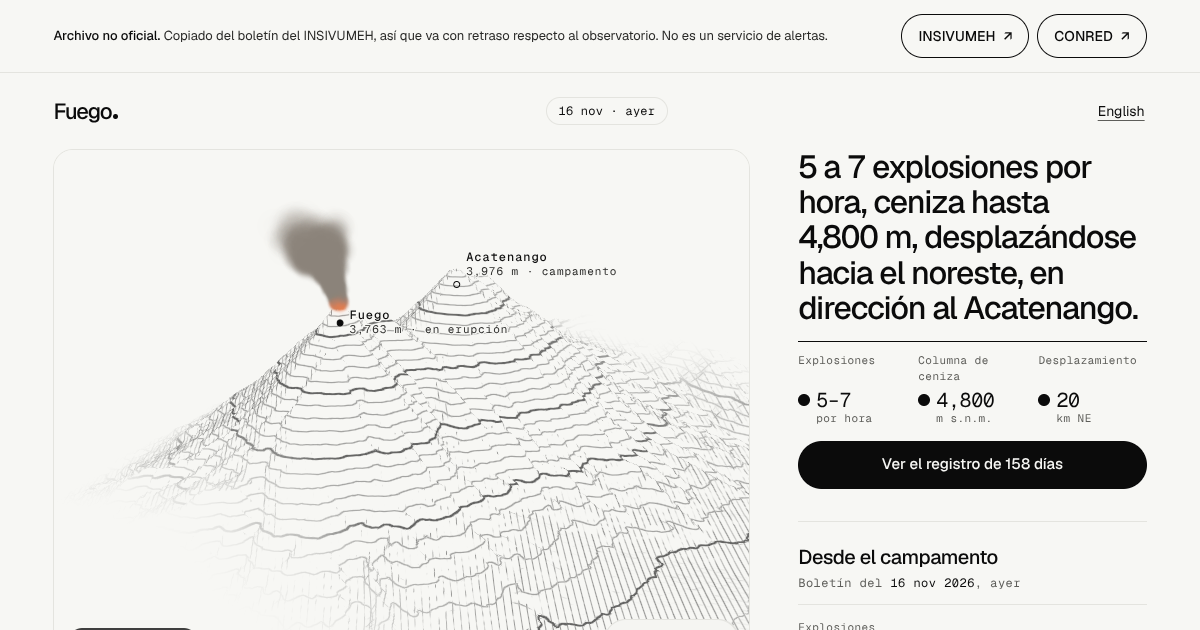
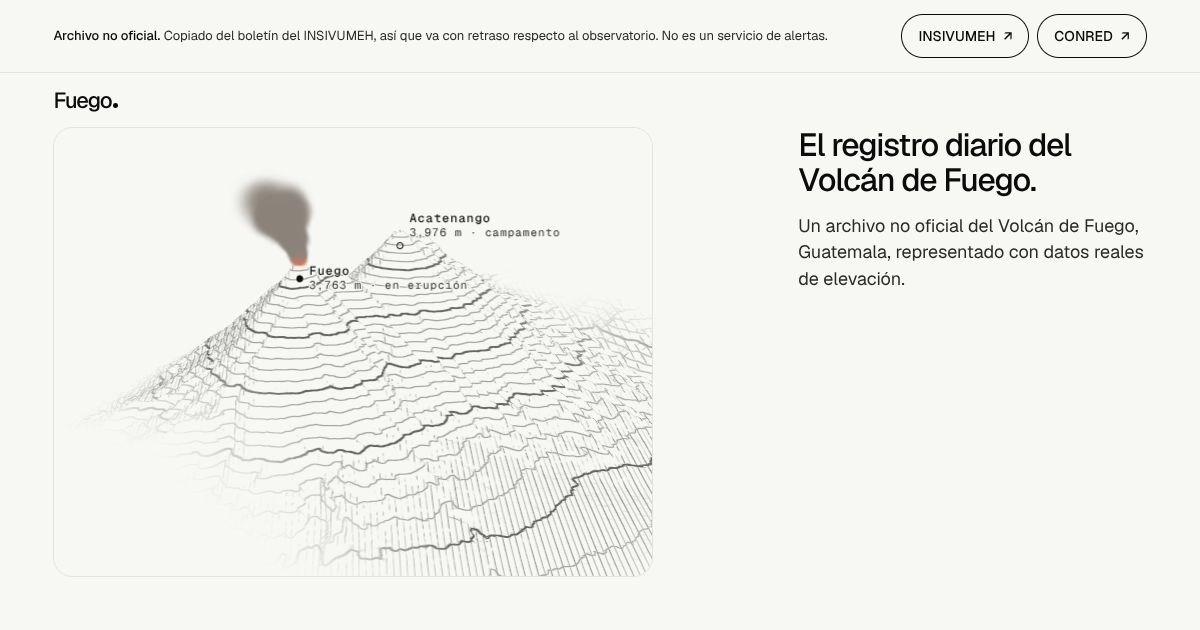
Make the social cards timeless, and the record's last px tokens
Nothing re-renders the cards when a bulletin lands, so a card showing one
day's reading and "yesterday" would go stale the next day. The cards now
carry only the engraved massif, the notice, the wordmark and the title.

Claude-Session: https://claude.ai/code/session_017ApWACLvP6NpAzrJRNjahB

diff --git a/scripts/og.ts b/scripts/og.ts
@@ -1,9 +1,14 @@
 /**
  * Renders the 1200x630 social cards from the real page: it serves the static
  * build in `out/` and screenshots the first screen, so the card shows the
- * actual engraved mountain and the day's sentence rather than an illustration.
- * One card per language: public/og.png from /, public/og-es.png from /es/.
- * Paper, with motion reduced, so the clip has already opened.
+ * actual engraved mountain rather than an illustration. One card per
+ * language: public/og.png from /, public/og-es.png from /es/. Paper, with
+ * motion reduced, so the clip has already opened.
+ *
+ * The card is timeless. Nothing regenerates it when a bulletin lands, so it
+ * carries no day: the age pill, the day's sentence and figures, the image
+ * tag's date and the controls are taken out, and the title and the page's
+ * own description stand where the day was. The notice stays, word for word.
  *
  *   npm run build && npm run og
  *
@@ -16,12 +21,17 @@ import path from 'node:path';
 
 import { chromium } from 'playwright';
 
+import { getDict, type Locale } from '../src/i18n';
+
 const PORT = Number(process.env.OG_PORT ?? 4173);
 /** The card for each language, and the page it is taken from. */
 const CARDS = [
-  { route: '/', file: path.join(process.cwd(), 'public', 'og.png') },
-  { route: '/es/', file: path.join(process.cwd(), 'public', 'og-es.png') },
-];
+  { route: '/', locale: 'en', file: path.join(process.cwd(), 'public', 'og.png') },
+  { route: '/es/', locale: 'es', file: path.join(process.cwd(), 'public', 'og-es.png') },
+] satisfies { route: string; locale: Locale; file: string }[];
+
+/** The card's height. */
+const CARD_H = 630;
 
 async function waitForServer(url: string): Promise<void> {
   for (let i = 0; i < 60; i += 1) {
@@ -49,7 +59,7 @@ async function main(): Promise<void> {
     try {
       for (const card of CARDS) {
         const page = await browser.newPage({
-          viewport: { width: 1200, height: 630 },
+          viewport: { width: 1200, height: CARD_H },
           deviceScaleFactor: 1,
           reducedMotion: 'reduce',
           colorScheme: 'light',
@@ -57,8 +67,32 @@ async function main(): Promise<void> {
         await page.goto(new URL(card.route.slice(1), url).href, { waitUntil: 'networkidle' });
         // The scene is drawn once its loading state has gone; then give it a moment to settle.
         await page.waitForFunction(() => !document.querySelector('.massif-state'), undefined, { timeout: 30_000 });
-        await page.waitForTimeout(2000);
-        await page.screenshot({ path: card.file, clip: { x: 0, y: 0, width: 1200, height: 630 } });
+        const { meta } = getDict(card.locale);
+        // "Fuego: the daily record of …" → "The daily record of …", under the wordmark.
+        const heading = meta.title.replace(/^Fuego:\s*/, '');
+        await page.evaluate(({ heading, description, cardH }) => {
+          // Everything that names a day, or is a control, goes.
+          document.querySelectorAll('.topbar > :not(.brand), .chip-tag, .massif-views, .first ~ *, .replay-bar')
+            .forEach((el) => el.remove());
+          const day = document.querySelector<HTMLElement>('.first-day')!;
+          day.replaceChildren();
+          const h = document.createElement('p');
+          h.className = 'day-sentence';
+          h.textContent = `${heading[0].toUpperCase()}${heading.slice(1)}.`;
+          const d = document.createElement('p');
+          d.className = 'readout-note';
+          d.textContent = description;
+          d.style.fontSize = '18px';
+          d.style.marginTop = '0';
+          day.append(h, d);
+          // The scene ends a gutter above the card's edge, so nothing is cut.
+          const scene = document.querySelector<HTMLElement>('.first-scene')!;
+          const gutter = parseFloat(getComputedStyle(document.querySelector('.first')!).paddingLeft);
+          scene.style.height = `${cardH - gutter - scene.getBoundingClientRect().top}px`;
+        }, { heading, description: meta.description, cardH: CARD_H });
+        // Let the scene redraw at its new size.
+        await page.waitForTimeout(2500);
+        await page.screenshot({ path: card.file, clip: { x: 0, y: 0, width: 1200, height: CARD_H } });
         console.log(`[og] wrote ${path.relative(process.cwd(), card.file)}`);
         await page.close();
       }

diff --git a/src/app/globals.css b/src/app/globals.css
@@ -360,7 +360,7 @@
   margin-bottom: var(--space-5);
 }
 .record-head h2, .camp-head h2 {
-  margin: 0 0 10px;
+  margin: 0 0 var(--space-3);
   font-size: clamp(26px, 3.6vw, 38px);
   font-weight: 500;
   letter-spacing: -0.035em;
@@ -550,7 +550,6 @@
 
 .lanes-plot { cursor: crosshair; touch-action: pan-y; }
 .lanes-plot:focus-visible { outline-offset: 4px; }
-.lane { margin: 0 0 10px; }
 .lane svg { display: block; width: 100%; height: auto; border-bottom: 1px solid var(--rule); }
 .lane-head {
   display: flex;
@@ -586,7 +585,7 @@
 }
 .lanes-summary > div { background: var(--bg); padding: var(--space-3) var(--space-4); }
 .lanes-summary dd { margin: var(--space-1) 0 0; font-size: 18px; font-variant-numeric: tabular-nums; }
-.lanes-summary ul { display: flex; flex-wrap: wrap; gap: 2px 14px; margin: 0; padding: 0; list-style: none; font-size: 15px; }
+.lanes-summary ul { display: flex; flex-wrap: wrap; gap: var(--space-1) var(--space-3); margin: 0; padding: 0; list-style: none; font-size: 15px; }
 .lanes-summary li span { font-family: var(--mono); font-weight: 500; }
 .lanes-summary .figures-note { font-size: 13px; color: var(--muted); }
 @media (max-width: 560px) {
@@ -623,7 +622,7 @@
 .gvp-list li { display: flex; flex-direction: column; gap: 2px; padding: var(--space-3) var(--space-4); background: var(--bg); font-size: 14px; font-variant-numeric: tabular-nums; }
 .gvp-list li b { font-weight: 500; }
 .gvp-list li span { color: var(--soft); }
-.gvp-list .gvp-links { display: flex; flex-wrap: wrap; align-items: center; gap: 0 8px; margin-top: 2px; }
+.gvp-list .gvp-links { display: flex; flex-wrap: wrap; align-items: center; gap: 0 var(--space-2); margin-top: var(--space-1); }
 .gvp-credit { margin: var(--space-3) 0 0; color: var(--muted); font-size: 13px; max-width: 76ch; }
 
 /* ── from camp (#9) ───────────────────────────────────────────────────── */

diff --git a/src/i18n/es.ts b/src/i18n/es.ts
@@ -46,7 +46,7 @@ export const es: Dict = {
   meta: {
     title: 'Fuego: el registro diario del Volcán de Fuego',
     description: 'Un archivo no oficial del Volcán de Fuego, Guatemala, representado con datos reales de elevación.',
-    ogAlt: 'El macizo del Fuego y el Acatenango dibujado como un grabado en tinta, junto al último boletín en una frase',
+    ogAlt: 'El macizo del Fuego y el Acatenango dibujado como un grabado en tinta, junto al título: el registro diario del Volcán de Fuego',
     ogLocale: 'es_GT',
   },
   languageName: 'Español',

diff --git a/src/i18n/en.ts b/src/i18n/en.ts
@@ -34,7 +34,7 @@ export const en: Dict = {
   meta: {
     title: 'Fuego: the daily record of Volcán de Fuego',
     description: 'An unofficial archive of Volcán de Fuego, Guatemala, rendered from real elevation data.',
-    ogAlt: 'The Fuego and Acatenango massif drawn as an ink engraving, beside the latest bulletin in one sentence',
+    ogAlt: 'The Fuego and Acatenango massif drawn as an ink engraving, beside the title: the daily record of Volcán de Fuego',
     ogLocale: 'en_GB',
   },
   languageName: 'English',

diff --git a/docs/design.md b/docs/design.md
@@ -125,7 +125,7 @@ What the build settled that the canvas left open, so a later change keeps it:
 - **Hoop on the chart** wears its eyes just above the lens rather than inside it, so the bold line inside the lens stays clear. This is on purpose.
 - **Held in the readout.** On a day with no rate whose plume the scene holds from an earlier day, the readout's explosions figure carries the dotted ring and names that day ("plume shows 9 Jun"); the chart and the lanes show the same day as hatched, not reported. Never a 0 in either.
 - **The 404** carries the wordmark and says the same thing in both languages, the Spanish marked `lang="es"`, with a link home in each.
-- **Social cards** are taken from the real first screen on paper, one per language (`public/og.png`, `public/og-es.png`, `npm run og` after a build).
+- **Social cards** are taken from the real first screen on paper, one per language (`public/og.png`, `public/og-es.png`, `npm run og` after a build). They are timeless: nothing re-renders them when a bulletin lands, so they carry no day, no age pill and no figures, only the engraved massif, the notice, the wordmark and the title.
 - **The title** is "Fuego: the daily record of Volcán de Fuego" ("el registro diario"), never "live": the site is an archive that lags the observatory.
 
 ## Checked against the generic defaults
